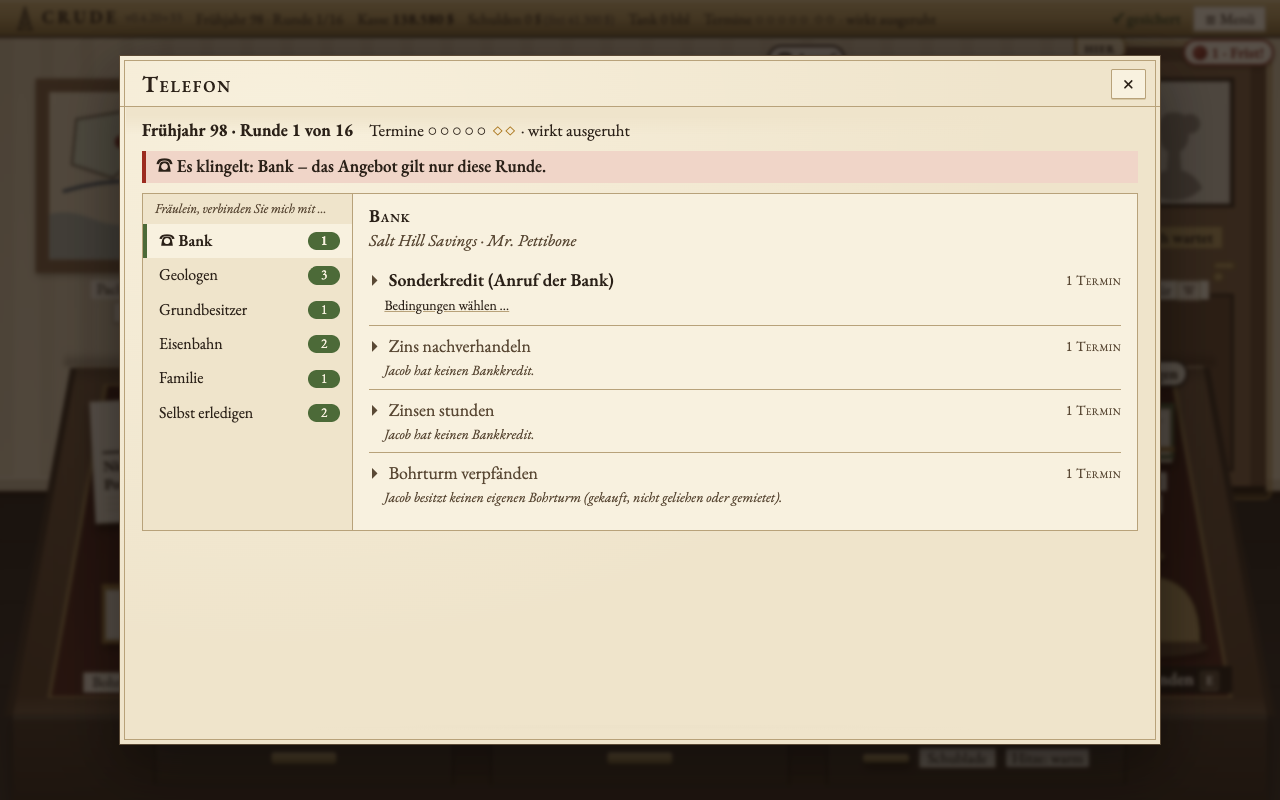
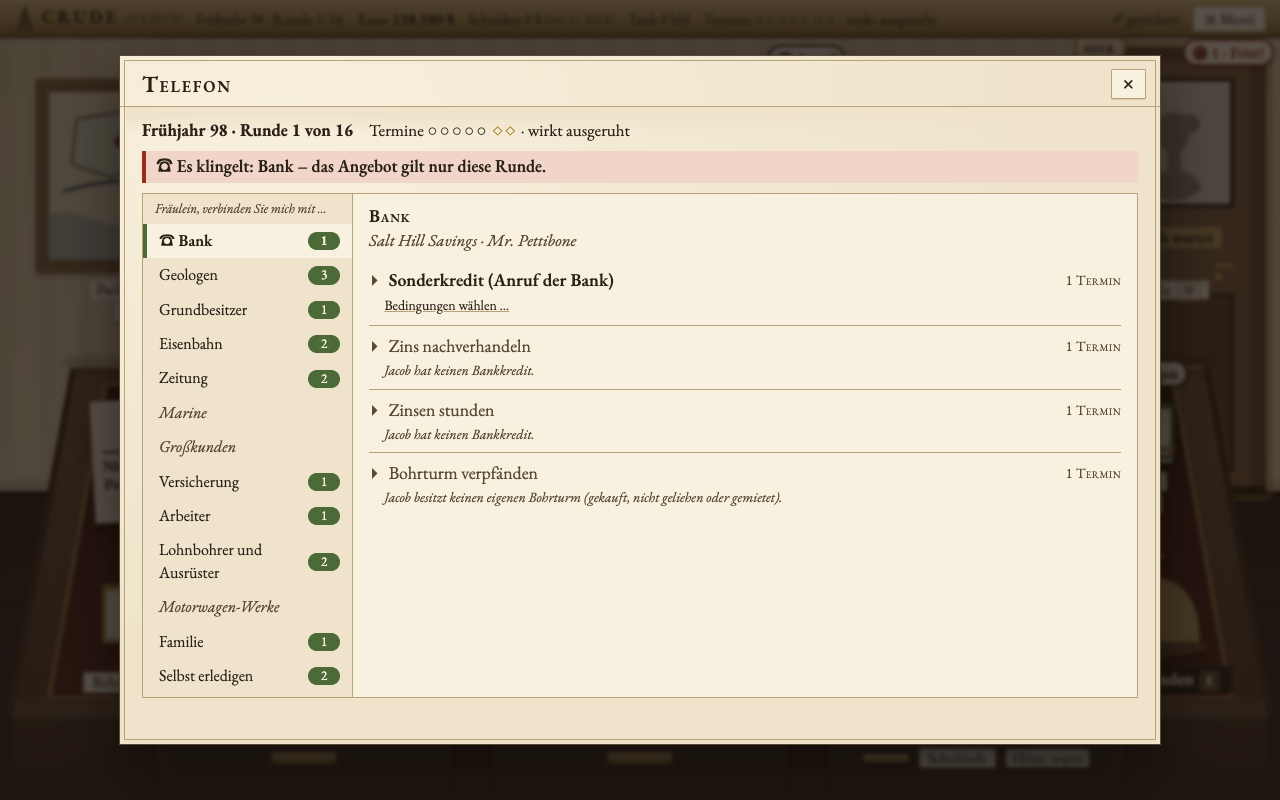
0.4.20+37 Telefon: Lohnbohrer, Ausrüster, Motorwagen-Werke, Abgeordneter

diff --git a/src/sim/deals.ts b/src/sim/deals.ts
@@ -18,7 +18,9 @@ import type { PlanHandler } from './planHandler';
 import { recordAct } from './politics';
 import { shiftStanding } from './pricing';
 import { producingWells, wellRate } from './production';
-import { rigReady, rigWell } from './rigs';
+import { rentRig, rigReady, rigWell } from './rigs';
+import { hallsteadOf } from './hallsteadState';
+import { politicsUnlocked } from './lobby';
 import { ownsRefinery, productDemand, productPrice, refineryWorld } from './refinery';
 import type { Product } from './refineryBalance';
 import { Rng, seedFromString } from './rng';
@@ -53,6 +55,12 @@ export interface DealsState {
   insurance?: { until: number; premium: number } | null;
   /** 0.4.20+36 Lohnerhöhung: Mehrkosten je Runde bis until. */
   wages?: { until: number; perRound: number } | null;
+  /** 0.4.20+37 Lohnbohrer: gemietete Türme mit Rabatt bis until (frühe Rückgabe kostet die Restmiete). */
+  crew?: { rigIds: string[]; until: number } | null;
+  /** 0.4.20+37 Beteiligung an den Motorwagen-Werken: zahlt ab Kapitel 3 (oder scheitert). */
+  autoStake?: { round: number; failed: boolean | null } | null;
+  /** 0.4.20+37 Der Abgeordnete will seinen Gefallen zurück: In Runde due ruft er an und fordert amount. */
+  favorDebt?: { due: number; amount: number } | null;
 }
 
 export interface SupplyContract {
@@ -701,7 +709,151 @@ const interviewPresse: PlanHandler = {
   },
 };
 
+// --- Lohnbohrer, Ausrüster, Motorwagen, Abgeordneter (Kapitel 2) --------------------------------
+
+const ausruesterSammel: PlanHandler = {
+  options(state, balance) {
+    const a = balance.deals.outfitter;
+    return a.rigs.map((n) => {
+      const preis = Math.round(n * balance.drilling.rigs.buy.cost * (1 - a.discount));
+      return { id: String(n), label: `${n} Bohrtürme für ${money(preis)} · Lieferung in ${a.delivery} Runden`, reason: state.cash < preis ? `Nicht genug Geld (${money(preis)}).` : null };
+    });
+  },
+  cost(_state, balance, target) {
+    const a = balance.deals.outfitter;
+    return target ? Math.round(Number(target) * balance.drilling.rigs.buy.cost * (1 - a.discount)) : 0;
+  },
+  detail(_state, balance) {
+    const a = balance.deals.outfitter;
+    return `${percent(a.discount)} unter dem Einzelpreis, dafür ${a.delivery} statt ${balance.drilling.rigs.buy.deliveryRounds} Runde Lieferzeit.`;
+  },
+  apply(state, balance, target) {
+    const a = balance.deals.outfitter;
+    const n = Number(target ?? a.rigs[0]);
+    const rigs = [...state.rigs];
+    for (let i = 0; i < n; i++) {
+      const id = `t${Math.max(0, ...rigs.map((r) => Number(r.id.replace(/\D/g, '')) || 0)) + 1}`;
+      rigs.push({ id, kind: 'owned', readyRound: state.round + a.delivery, steam: false, rods: false });
+    }
+    return log({ ...state, rigs }, `Sammelbestellung beim Ausrüster: ${n} Bohrtürme, Lieferung in ${a.delivery} Runden.`);
+  },
+};
+
+function crewRent(balance: Balance): number {
+  return balance.drilling.rigs.rent.costPerRound * (1 - balance.deals.crew.discount);
+}
+
+/** Lohnbohrer-Turm vor Vertragsende zurückgeben: Restmiete (mit Rabatt) ist fällig. 0 ohne Vertrag. */
+export function crewReturnCost(state: Pick<GameState, 'round'> & Partial<Pick<GameState, 'deals'>>, balance: Balance, rigId: string): number {
+  const c = state.deals?.crew;
+  if (!c || !c.rigIds.includes(rigId) || c.until <= state.round) return 0;
+  return Math.round((c.until - state.round) * crewRent(balance));
+}
+
+const lohnbohrer: PlanHandler = {
+  lock(state) {
+    const c = state.deals?.crew;
+    if (c && c.until >= state.round) return 'Der Vertrag mit den Lohnbohrern läuft noch.';
+    return null;
+  },
+  detail(_state, balance) {
+    const c = balance.deals.crew;
+    return `${c.rigs} Mietürme für ${c.rounds} Runden, je ${money(crewRent(balance))} statt ${money(balance.drilling.rigs.rent.costPerRound)}. Wer früher zurückgibt, zahlt die Restmiete.`;
+  },
+  apply(state, balance) {
+    const c = balance.deals.crew;
+    let s = state;
+    const ids: string[] = [];
+    for (let i = 0; i < c.rigs; i++) {
+      const r = rentRig(s, balance);
+      if (!r.ok) break;
+      ids.push(r.state.rigs[r.state.rigs.length - 1].id);
+      s = r.state;
+    }
+    if (ids.length === 0) return log(state, 'Die Lohnbohrer haben gerade keinen Turm frei.');
+    return log(withDeals(s, { crew: { rigIds: ids, until: state.round + c.rounds - 1 } }), `Lohnbohrer unter Vertrag: ${ids.length} Türme für ${c.rounds} Runden.`);
+  },
+};
+
+const motorwagenBeteiligung: PlanHandler = {
+  lock(state, balance) {
+    if (state.deals?.autoStake) return 'Jacob ist schon beteiligt.';
+    if (state.cash < balance.deals.motor.stake.cost) return `Nicht genug Geld (${money(balance.deals.motor.stake.cost)}).`;
+    return null;
+  },
+  cost(_state, balance) {
+    return balance.deals.motor.stake.cost;
+  },
+  detail(_state, balance) {
+    const m = balance.deals.motor.stake;
+    return `Ab Kapitel 3 ${money(m.income)} je Runde – wenn die Fabrik nicht scheitert (${percent(m.fail)}).`;
+  },
+  apply(state, balance) {
+    return log(withDeals(state, { autoStake: { round: state.round, failed: null } }), `Jacob beteiligt sich mit ${money(balance.deals.motor.stake.cost)} an den Föderalen Motorwagen-Werken.`);
+  },
+};
+
+const abgeordneterStimme: PlanHandler = {
+  visible(state, balance) {
+    return politicsUnlocked(state, balance);
+  },
+  lock(state) {
+    if (state.deals?.favorDebt) return 'Der Abgeordnete wartet noch auf seinen Gefallen.';
+    return null;
+  },
+  cost(_state, balance) {
+    return balance.deals.deputy.donation;
+  },
+  detail(_state, balance) {
+    const d = balance.deals.deputy;
+    return `${d.favors} Gefallen sofort. In ${d.rounds} Runden ruft er wieder an und will ${money(d.demand)} – wer ablehnt, verliert Ansehen in der Politik.`;
+  },
+  apply(state, balance) {
+    const d = balance.deals.deputy;
+    const h = hallsteadOf(state, balance);
+    const s = { ...state, hallstead: { ...h, lobby: { ...h.lobby, favors: h.lobby.favors + d.favors } } };
+    return log(withDeals(s, { favorDebt: { due: state.round + d.rounds, amount: d.demand } }), `Der Abgeordnete nimmt die Spende. Man schuldet Jacob ${d.favors} Gefallen – und er Jacob bald einen.`);
+  },
+};
+
+function politikRuf(state: GameState, delta: number): GameState {
+  const r = state.reputation;
+  return { ...state, reputation: { ...(r ?? { public: 0, politics: 0, workers: 0, industryRespect: 0, industryFear: 0, standing: 0 }), politics: Math.max(-100, Math.min(100, (r?.politics ?? 0) + delta)) } };
+}
+
+const abgeordneterGefallen: PlanHandler = {
+  // Nur, wenn der Abgeordnete seinen Gefallen einfordert (ringPhone ruft ihn dann sicher an).
+  visible(state) {
+    const f = state.deals?.favorDebt;
+    return !!f && state.round >= f.due;
+  },
+  options(state) {
+    const n = state.deals?.favorDebt?.amount ?? 0;
+    return [
+      { id: 'zahlen', label: `Zahlen – ${money(n)}`, reason: state.cash < n ? `Nicht genug Geld (${money(n)}).` : null },
+      { id: 'ablehnen', label: 'Ablehnen – er wird es nicht vergessen', reason: null },
+    ];
+  },
+  cost(state, _balance, target) {
+    return target === 'zahlen' ? (state.deals?.favorDebt?.amount ?? 0) : 0;
+  },
+  detail(_state, balance) {
+    return `Wer nicht reagiert, hat abgelehnt: Ansehen in der Politik −${balance.deals.deputy.refuse}.`;
+  },
+  apply(state, balance, target) {
+    const s = withDeals(state, { favorDebt: null });
+    if (target === 'zahlen') return log(s, 'Jacob begleicht seine Schuld beim Abgeordneten.');
+    return log(politikRuf(s, -balance.deals.deputy.refuse), 'Jacob lässt den Abgeordneten abblitzen. In Hallstead spricht sich das herum.');
+  },
+};
+
 export const DEAL_HANDLERS: Record<string, PlanHandler> = {
+  ausruester_sammel: ausruesterSammel,
+  lohnbohrer,
+  motorwagen_benzin: supplyDeal('motorwagen_benzin', 'gasoline'),
+  motorwagen_beteiligung: motorwagenBeteiligung,
+  abgeordneter_stimme: abgeordneterStimme,
+  abgeordneter_gefallen: abgeordneterGefallen,
   versicherung,
   lohnerhoehung,
   streik_droht: streikDroht,
@@ -788,6 +940,28 @@ export function settleDeals(input: GameState, balance: Balance): GameState {
     s = log(s, `Die Bohrtrupps streiken – ${percent(loss)} weniger Förderung in dieser Runde.`);
   }
 
+  // Lohnbohrer: Rabatt auf die Miete der Vertragstürme (settleRigs berechnet den vollen Preis).
+  d = dealsOf(s);
+  if (d.crew && d.crew.until >= s.round) {
+    const da = d.crew.rigIds.filter((id) => s.rigs.some((r) => r.id === id && r.kind === 'rented')).length;
+    s = { ...s, cash: cents(s.cash + da * (balance.drilling.rigs.rent.costPerRound - crewRent(balance))) };
+  }
+  if (d.crew && d.crew.until <= s.round) s = withDeals(s, { crew: null });
+  // Motorwagen-Beteiligung: ab Kapitel 3 entscheidet sich, ob die Fabrik läuft; dann Einnahmen je Runde.
+  d = dealsOf(s);
+  if (d.autoStake && (s.chapter ?? 1) >= 3) {
+    if (d.autoStake.failed === null) {
+      const scheitert = rng(s, 'motorwagen').float() < b.motor.stake.fail;
+      s = log(withDeals(s, { autoStake: { ...d.autoStake, failed: scheitert } }), scheitert ? 'Die Motorwagen-Fabrik ist pleite – Jacobs Anteil ist nichts mehr wert.' : 'Die Motorwagen-Fabrik läuft – Jacobs Anteil bringt Geld.');
+    }
+    if (dealsOf(s).autoStake?.failed === false) s = { ...s, cash: cents(s.cash + b.motor.stake.income) };
+  }
+  // Abgeordneter: Wer beim Anruf nicht reagiert, hat abgelehnt.
+  d = dealsOf(s);
+  if (d.favorDebt && d.call?.card === 'abgeordneter_gefallen' && d.call.round === s.round && !(s.plans?.booked ?? []).some((x) => x.cardId === 'abgeordneter_gefallen')) {
+    s = log(politikRuf(withDeals(s, { favorDebt: null }), -b.deputy.refuse), 'Jacob hat den Abgeordneten nicht zurückgerufen. In Hallstead spricht sich das herum.');
+  }
+
   // Verliehener Turm: Miete, Rückgabe, vielleicht beschädigt.
   d = dealsOf(s);
   if (d.lent) {
@@ -816,6 +990,9 @@ export function dealsRunning(state: GameState, balance: Balance): string[] {
   if (d.guardRound === state.round) out.push('Wache an den Tanks');
   if (d.insurance && d.insurance.until >= state.round) out.push(`Feuerversicherung bis Runde ${d.insurance.until} (${money(d.insurance.premium)} je Runde)`);
   if (d.wages && d.wages.until >= state.round) out.push(`Lohnerhöhung bis Runde ${d.wages.until} (${money(d.wages.perRound)} je Runde)`);
+  if (d.crew && d.crew.until >= state.round) out.push(`Lohnbohrer-Vertrag bis Runde ${d.crew.until} (${d.crew.rigIds.length} Türme)`);
+  if (d.autoStake && d.autoStake.failed !== true) out.push('Beteiligung an den Motorwagen-Werken');
+  if (d.favorDebt) out.push(`Der Abgeordnete will um Runde ${d.favorDebt.due} seinen Gefallen`);
   for (const c of activeSupply(state)) out.push(`Liefervertrag: ${bbl(c.qty)} ${PRODUKT[c.product]} je Runde zu ${c.price.toLocaleString('de-DE')} $ bis Runde ${c.until}`);
   return out;
 }

diff --git a/src/sim/deals.test.ts b/src/sim/deals.test.ts
@@ -1,11 +1,12 @@
 import { describe, expect, it } from 'vitest';
 import { creditLimit, quarterInterest, settleLoans, takeLoan } from './credit';
-import { activeSupply, callerCard, insuranceClaim, insurancePremium, DEAL_HANDLERS, dealsOf, supplyPrice, supplyShortfall, dealsRunning, newDeals, royaltyPrice, settleDeals } from './deals';
+import { activeSupply, callerCard, crewReturnCost, insuranceClaim, insurancePremium, DEAL_HANDLERS, dealsOf, supplyPrice, supplyShortfall, dealsRunning, newDeals, royaltyPrice, settleDeals } from './deals';
 import type { Well } from './drilling';
 import { newGame, type GameState } from './game';
 import { bookCard, planView, ringPhone, settlePlans } from './plans';
 import { planRun, unlockRefinery } from './refinery';
-import { buyRig, rigReady } from './rigs';
+import { buyRig, returnRig, rigReady } from './rigs';
+import { availableFavors } from './lobby';
 import { deserializeGame, serializeGame } from './save';
 import { loadBalance } from './testBalance';
 import { loadEvents } from './testEvents';
@@ -347,5 +348,57 @@ describe('Versicherung, Arbeiter, Presse (0.4.20+36)', () => {
     expect(Math.abs(hoch / 200 - (1 - b.press.ads.backlash))).toBeLessThan(0.08);
     const iv = DEAL_HANDLERS.interview_presse.apply(k2('iv'), balance);
     expect(Math.abs(iv.reputation?.public ?? 0)).toBe(b.press.interview.reputation);
+  });
+});
+
+describe('Lohnbohrer, Ausrüster, Motorwagen, Abgeordneter (0.4.20+37)', () => {
+  const k2 = (seed: string, patch: Partial<GameState> = {}) => start(seed, { chapter: 2, ...patch });
+
+  it('Sammelbestellung: Türme billiger, aber später geliefert', () => {
+    const s0 = k2('sammel', { cash: 20000 });
+    const s = buche(s0, 'ausruester_sammel', '2');
+    const neu = s.rigs.filter((r) => r.kind === 'owned');
+    expect(neu).toHaveLength(2);
+    expect(new Set(s.rigs.map((r) => r.id)).size).toBe(s.rigs.length);
+    expect(neu.every((r) => r.readyRound === s.round + b.outfitter.delivery)).toBe(true);
+    expect(s.cash).toBeCloseTo(s0.cash - Math.round(2 * balance.drilling.rigs.buy.cost * (1 - b.outfitter.discount)), 2);
+  });
+
+  it('Lohnbohrer: Mietürme mit Rabatt; frühe Rückgabe kostet die Restmiete', () => {
+    const s = buche(k2('crew', { cash: 20000 }), 'lohnbohrer');
+    const ids = dealsOf(s).crew!.rigIds;
+    expect(ids).toHaveLength(b.crew.rigs);
+    const nach = settleDeals(s, balance);
+    expect(nach.cash).toBeCloseTo(s.cash + ids.length * balance.drilling.rigs.rent.costPerRound * b.crew.discount, 2);
+    const r = returnRig(s, balance, ids[0]);
+    if (!r.ok) throw new Error(r.reason);
+    expect(r.state.cash).toBeCloseTo(s.cash - crewReturnCost(s, balance, ids[0]), 2);
+    expect(crewReturnCost(s, balance, ids[0])).toBeGreaterThan(0);
+  });
+
+  it('Motorwagen-Beteiligung: zahlt erst ab Kapitel 3, scheitert etwa mit der Chance', () => {
+    let gescheitert = 0;
+    for (let i = 0; i < 200; i++) {
+      const s = buche(k2(`mw${i}`, { cash: 30000, deals: { ...newDeals(), call: { card: 'motorwagen_beteiligung', round: 1 } } }), 'motorwagen_beteiligung');
+      expect(settleDeals(s, balance).cash).toBe(s.cash);
+      const k3 = settleDeals({ ...s, chapter: 3 }, balance);
+      if (dealsOf(k3).autoStake!.failed) gescheitert++;
+      else expect(k3.cash).toBe(s.cash + b.motor.stake.income);
+    }
+    expect(Math.abs(gescheitert / 200 - b.motor.stake.fail)).toBeLessThan(0.08);
+  });
+
+  it('Abgeordneter: Gefallen sofort; nach der Frist ruft er sicher an; nicht reagieren kostet Ansehen', () => {
+    const s0 = k2('abg', { cash: 10000, deals: { ...newDeals(), call: { card: 'abgeordneter_stimme', round: 1 } } });
+    const s = buche(s0, 'abgeordneter_stimme');
+    expect(availableFavors(s)).toBe(availableFavors(s0) + b.deputy.favors);
+    const faellig = ringPhone({ ...s, round: dealsOf(s).favorDebt!.due }, balance, katalog);
+    expect(callerCard(faellig)).toBe('abgeordneter_gefallen');
+    const ignoriert = settleDeals(faellig, balance);
+    expect(ignoriert.reputation?.politics).toBe(-b.deputy.refuse);
+    expect(dealsOf(ignoriert).favorDebt).toBeNull();
+    const bezahlt = buche(faellig, 'abgeordneter_gefallen', 'zahlen');
+    expect(bezahlt.cash).toBeCloseTo(faellig.cash - b.deputy.demand, 2);
+    expect(dealsOf(bezahlt).favorDebt).toBeNull();
   });
 });

diff --git a/src/sim/dealsBalance.ts b/src/sim/dealsBalance.ts
@@ -16,7 +16,7 @@ export interface DealsBalance {
     offer: { sizes: number[]; discount: number; floor: number; rounds: number; penalty: number };
   };
   /** 0.4.20+35 Lieferverträge der Raffinerie: Produkt, Mengen je Runde, Laufzeit, Aufschlag auf den heutigen Preis, Strafe je fehlendem Barrel. */
-  supply: Record<'marine' | 'lubricant' | 'kerosene', { product: Product; sizes: number[]; rounds: number; premium: number; shortfall: number }>;
+  supply: Record<'marine' | 'lubricant' | 'kerosene' | 'gasoline', { product: Product; sizes: number[]; rounds: number; premium: number; shortfall: number }>;
   /** 0.4.20+36 Feuerversicherung: Laufzeiten, Prämie = base + share × Wert, zahlt cover des Schadens, Prämie nach Schaden × (1 + claimRaise). */
   insurance: { rounds: number[]; base: number; share: number; cover: number; claimRaise: number };
   /** 0.4.20+36 Arbeiter: Lohnerhöhung (je fördernder Quelle, Runden, Ruf) und Streik-Anruf (Einigung je Quelle, Streikbrecher, Förderausfall). */
@@ -26,6 +26,14 @@ export interface DealsBalance {
   };
   /** 0.4.20+36 Presse: Anzeigen (Kosten, Ruf, Rückschlag-Chance, Pause) und Interview (Chance, Ruf, Pause). */
   press: { ads: { cost: number; reputation: number; backlash: number; cooldown: number }; interview: { chance: number; reputation: number; cooldown: number } };
+  /** 0.4.20+37 Ausrüster: Sammelbestellung (Anzahl Türme, Rabatt, Lieferzeit). */
+  outfitter: { rigs: number[]; discount: number; delivery: number };
+  /** 0.4.20+37 Lohnbohrer: so viele Mietürme, Runden, Rabatt auf die Miete. */
+  crew: { rigs: number; rounds: number; discount: number };
+  /** 0.4.20+37 Motorwagen-Werke: Beteiligung (Kosten, Einnahmen je Runde ab Kapitel 3, Chance zu scheitern). */
+  motor: { stake: { cost: number; income: number; fail: number } };
+  /** 0.4.20+37 Abgeordneter: Spende, Gefallen, Runden bis zur Gegenforderung, Forderung, Ansehensverlust beim Ablehnen. */
+  deputy: { donation: number; favors: number; rounds: number; demand: number; refuse: number };
   /** 0.4.20+34 Telefon: Chance je Runde (ab Kapitel 2), dass jemand anruft. */
   phone: { chance: number };
   rail: {
@@ -154,6 +162,17 @@ export function parseDealsBalance(raw: unknown): DealsBalance {
       marine: vertrag(raw, `${p}.supply.marine`),
       lubricant: vertrag(raw, `${p}.supply.lubricant`),
       kerosene: vertrag(raw, `${p}.supply.kerosene`),
+      gasoline: vertrag(raw, `${p}.supply.gasoline`),
+    },
+    outfitter: { rigs: liste(raw, `${p}.outfitter.rigs`), discount: anteil(raw, `${p}.outfitter.discount`), delivery: ganz(raw, `${p}.outfitter.delivery`) },
+    crew: { rigs: ganz(raw, `${p}.crew.rigs`), rounds: ganz(raw, `${p}.crew.rounds`), discount: anteil(raw, `${p}.crew.discount`) },
+    motor: { stake: { cost: zahl(raw, `${p}.motor.stake.cost`), income: zahl(raw, `${p}.motor.stake.income`), fail: anteil(raw, `${p}.motor.stake.fail`) } },
+    deputy: {
+      donation: zahl(raw, `${p}.deputy.donation`),
+      favors: zahl(raw, `${p}.deputy.favors`),
+      rounds: ganz(raw, `${p}.deputy.rounds`),
+      demand: zahl(raw, `${p}.deputy.demand`),
+      refuse: zahl(raw, `${p}.deputy.refuse`),
     },
     rail: {
       fixed: { rounds: liste(raw, `${p}.rail.fixed.rounds`), minimum: zahl(raw, `${p}.rail.fixed.minimum`), shortfall: zahl(raw, `${p}.rail.fixed.shortfall`) },

diff --git a/src/sim/rigs.ts b/src/sim/rigs.ts
@@ -10,7 +10,7 @@
 // Reine Funktionen, kein Zufall.
 
 import type { Balance, DrillStage } from './balance';
-import { rigLent } from './deals';
+import { crewReturnCost, rigLent } from './deals';
 import { formatDate } from './calendar';
 import type { GameState } from './game';
 import type { Well } from './drilling';
@@ -222,7 +222,10 @@ export function returnRig(state: GameState, _balance: Balance, rigId: string): R
   const rig = findRig(state, rigId);
   if (!rig || rig.kind !== 'rented') return { ok: false, reason: 'Nur gemietete Türme lassen sich zurückgeben.' };
   if (rigWell(state, rig.id)) return { ok: false, reason: 'Der Turm bohrt noch – erst danach kann er zurück.' };
-  return { ok: true, state: { ...state, rigs: state.rigs.filter((r) => r.id !== rig.id), log: logged(state, `${rigLabel(rig)} geht zurück an den Vermieter.`) } };
+  // 0.4.20+37: Ein Turm der Lohnbohrer vor Vertragsende kostet die Restmiete (deals.ts).
+  const rest = crewReturnCost(state, _balance, rig.id);
+  const text = rest > 0 ? `${rigLabel(rig)} geht vor Vertragsende zurück – die Lohnbohrer verlangen ${money(rest)} Restmiete.` : `${rigLabel(rig)} geht zurück an den Vermieter.`;
+  return { ok: true, state: { ...state, cash: state.cash - rest, rigs: state.rigs.filter((r) => r.id !== rig.id), log: logged(state, text) } };
 }
 
 /** Dampfmaschine oder Stahlgestänge an einem eigenen (oder Silas') Turm nachrüsten. */

diff --git a/src/sim/plans.ts b/src/sim/plans.ts
@@ -602,6 +602,9 @@ export function exploreAppointments(state: GameState, balance: Balance): number 
  */
 export function ringPhone(state: GameState, balance: Balance, catalog: readonly EventDef[]): GameState {
   if (chapterOf(state) < 2 || state.finished) return state;
+  // 0.4.20+37: Ein fälliger Gefallen geht vor – der Abgeordnete ruft sicher an.
+  const schuld = state.deals?.favorDebt;
+  if (schuld && state.round >= schuld.due) return { ...state, deals: { ...dealsOf(state), call: { card: 'abgeordneter_gefallen', round: state.round } } };
   const rng = new Rng(seedFromString(`${state.seed}:telefon:${state.round}`));
   if (rng.float() >= balance.deals.phone.chance) return state;
   const moeglich = planCards(balance, catalog).filter((c) => {

diff --git a/src/ui/sheets/plans.css b/src/ui/sheets/plans.css
@@ -32,9 +32,9 @@
   justify-content: space-between;
   align-items: center;
   gap: 8px;
-  padding: 6px 12px;
+  padding: 4px 12px;
   border-left: 4px solid transparent;
-  font-size: 16px;
+  font-size: 15px;
 }
 .stelle-knopf:hover { background: var(--papier-hell); }
 .stelle-knopf:focus-visible { outline: 2px solid var(--ocker); outline-offset: -2px; }

diff --git a/CLAUDE.md b/CLAUDE.md
@@ -70,6 +70,7 @@
 - 0.4.20+34 Telefon ab Kapitel 2 (Etappe 3, Teil 1): Statt des Abreißkalenders hängt ein Wandtelefon (`src/ui/scene/Telefon.tsx`, Glocken zittern beim Klingeln, nicht bei reduced motion); Fenster „Telefon“ mit „Fräulein, verbinden Sie mich mit …“. Anrufe: Karten mit `call` (Gewicht) in plans.cards liegen nur in der Runde auf der Hand, in der es für sie klingelt (`ringPhone` in plans.ts zu Rundenbeginn ab Kapitel 2, Chance `deals.phone.chance` 0,35; `deals.call`, `callerCard`); die Stelle des Anrufers öffnet zuerst, Abzeichen „☎ Anruf“ am Telefon. Neue Bedingung `requires.minChapter`. Bank- und Bahn-Deals gelten jetzt auch ab Kapitel 2. Erster Anruf: Sonderkredit der Bank (`bank_angebot`, 2 Punkte unter Bankzins, in 8 Runden tilgen, sonst +4 Punkte). Bilder 34b/34c. Als Nächstes Teil 2: Marine, Großkunden, Versicherung, Arbeiter, Presse, Lohnbohrer/Ausrüster, Motorwagen, Abgeordneter (Plan in dieser Sitzung abgesegnet).
 - 0.4.20+35 Telefon Teil 2, Gruppe 1 – Lieferverträge der Raffinerie (Kapitel 2, `supply` in deals.ts, Zahlen `deals.supply`): Marine (Kommandant Brandt, Heizöl 1.000/2.500 bbl je Runde, 8 Runden, nur ohne `k2_marine_vertrag` aus builder 3s Ereignis k2_ag_marine), Großkunden: Fabriken (Schmieröl 500/1.000, 6 Runden, +10 %), Lampenöl-Händler (Kerosin 1.000/2.000, 12 Runden, +5 %). Festpreis = heutiger Großhandelspreis bei normaler Abnahme × (1 + premium); in `planRun` nimmt der Vertrag seine Menge zum Festpreis, nur der Rest drückt den Großhandel (`contractedOutput`); fehlende Menge kostet je Barrel Strafe, auch bei Stillstand (`supplyShortfall` in advanceRefinery). Stufe 1 mit Startmix macht ~5.200 Kerosin, 950 Schmieröl, 1.400 Heizöl, 1.900 Benzin – größere Verträge verlangen einen anderen Mix.
 - 0.4.20+36 Telefon Teil 2, Gruppe 2 (Kapitel 2, deals.ts, Zahlen `deals.insurance/workers/press`): Versicherung (Mr. Ashby, Prämie = 150 $ + 0,4 % von Raffinerie und Tanks je Runde, zahlt 80 % bei Raffinerie- oder Tankbrand über `insuranceClaim`, danach Prämie × 1,5), Arbeiter (Lohnerhöhung je Quelle 40 $/Runde, 8 Runden, Ruf Arbeiter +15 → Förderung; Anruf „Streik droht“: verhandeln, Streikbrecher (`strike_break`, Ruf −20) oder ignorieren = −40 % Förderung am Rundenende und `strike`), Presse (Anzeigen 3.000 $, öffentlicher Ruf +6, 15 % Rückschlag `press_scandal`; Interview mit Nora ±5, 60 %). Fernleitungs-Sabotage ist (noch) nicht versichert.
+- 0.4.20+37 Telefon Teil 2, Gruppe 3 (Kapitel 2, deals.ts, Zahlen `deals.outfitter/crew/motor/deputy`, `deals.supply.gasoline`): Lohnbohrer (2 Mietürme 6 Runden, Miete −30 %, frühe Rückgabe kostet die Restmiete – `crewReturnCost` in returnRig), Ausrüster (Sammelbestellung 2/3 Türme −20 %, Lieferung 2 Runden), Motorwagen-Werke (Benzin-Rahmenvertrag 12 Runden +8 %; Anruf „Beteiligung“ 15.000 $, nur Kapitel 2, zahlt ab Kapitel 3 1.400 $/Runde, scheitert mit 25 %), Abgeordneter (Anruf: 2.000 $ Spende → 2 Gefallen sofort; nach 6 Runden ruft er sicher an und will 3.000 $ – ablehnen oder nicht reagieren = Ruf Politik −15). Damit ist der in dieser Sitzung abgesegnete Telefon-Plan gebaut; Bots kennen die Kapitel-2-Deals noch nicht (Philipp: erstmal keine Bot-Läufe).
 - Bot-Läufe: `npm run bots` (schreibt docs/botlaeufe.md).
 - Tester-Build: `npm run release` → `release/crude-<version>.zip` (index.html im Wurzelverzeichnis, relative Pfade; release/ nicht committen). Feedback-Link in `content/tester.yaml` (leer = kein Knopf). Debug-Bereich im Build nur mit `?debug=1`.
 - Starten: `npm run dev`; Debug-Ansicht über `?seed=abc&debug=1` in der Adresse (mit Seed startet immer eine frische Welt, ohne Seed der gespeicherte Stand).
